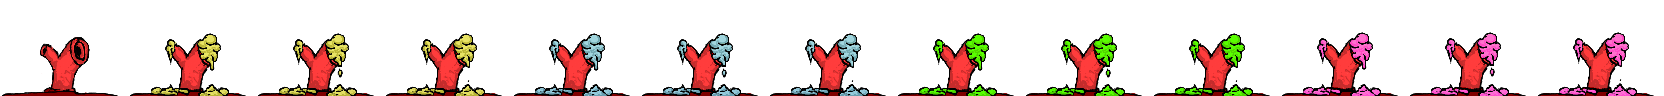
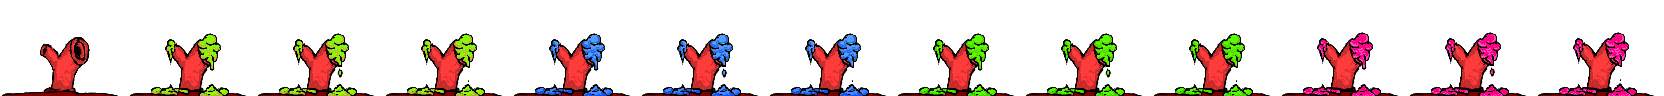
wadad

diff --git a/GlamourJam/GlamourJam/Vetbol.cs b/GlamourJam/GlamourJam/Vetbol.cs
@@ -87,11 +87,11 @@ namespace GlamourJam
             image.Position = new Vector2(24, 14);
             if (index == PlayerIndex.One)
             {
-                image.Color = Color.Yellow;
+                image.Color = Color.Yellow;//yellow
             }
             else if (index==PlayerIndex.Two)
             {
-                image.Color = Color.Azure;
+                image.Color = Color.CornflowerBlue;
             }
             else if (index == PlayerIndex.Three)
             {
